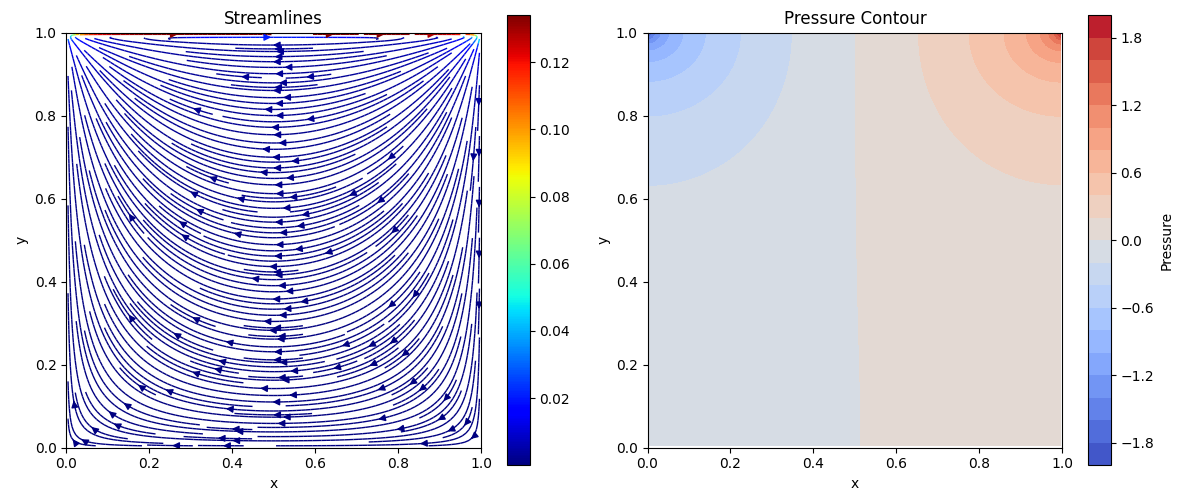
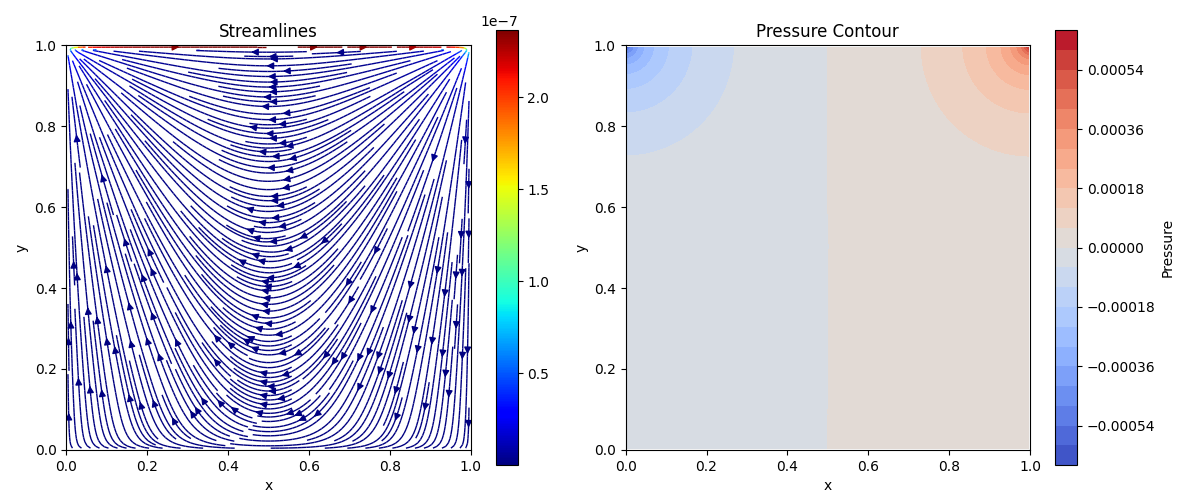
convection seems fixed

Changed region(s): [[0.0308, 0.03, 0.9867, 0.96], [0.2158, 0.96, 0.2467, 0.99], [0.0, 0.48, 0.0308, 0.51]]

diff --git a/Simple.py b/Simple.py
@@ -119,50 +119,38 @@ class CavitySIMPLE(DiffSchemes):
         self.u_star = np.copy(self.u)  # initialize u_star
         
         # upwind coefficients
-        u_avr_x = np.empty((self.nx+1, self.ny+2))
-        u_avr_x[:-1,:] = (self.u[:-1,:] + self.u[1:,:]) / 2 
-        u_avr_x[-1,:] = 0.5 * self.u[-1,:]  # last row is the right boundary, useless, only for shape
+        u_avr_x = np.empty((self.nx, self.ny))
+        u_avr_x = (self.u[:-1,1:-1] + self.u[1:,1:-1]) / 2 
         
-        alpha_uxp = np.maximum(u_avr_x, 0)[:,1:-1]     # nx+1, ny
-        alpha_uxm = np.minimum(u_avr_x, 0)[:,1:-1]     # nx+1, ny
-        # print(alpha_uxp.shape, alpha_uxm.shape)
+        alpha_uxp = np.maximum(u_avr_x, 0)     # nx, ny
+        alpha_uxm = np.minimum(u_avr_x, 0)     # nx, ny
         
-        v_avr_x = (self.v[1:-1,:] + self.v[2:,:]) / 2
+        # (nx-1,ny+1)
+        v_avr_x = (self.v[1:-2,:] + self.v[2:-1,:]) / 2
         
-        alpha_uyp = np.maximum(v_avr_x, 0)     # nx, ny+1
-        alpha_uym = np.minimum(v_avr_x, 0)     # nx, ny+1
-        # print(alpha_uyp.shape, alpha_uym.shape)
-        gamma_ux = np.zeros_like(alpha_uxp)  # nx+1, ny
-        gamma_uy = np.zeros_like(alpha_uyp)  # nx, ny+1
+        alpha_uyp = np.maximum(v_avr_x, 0)     # nx-1,ny+1
+        alpha_uym = np.minimum(v_avr_x, 0)     # nx-1,ny+1
+        gamma_ux = np.zeros_like(alpha_uxp)  # nx, ny
+        gamma_uy = np.zeros_like(alpha_uyp)  # nx-1,ny+1
         if uworder == 2:
-            # TODO: fix the expression
-            gamma_ux[1:-1] = 0.5 * (alpha_uxp[1:-1] * (self.u[1:-2,1:-1] - self.u[:-3,1:-1]) +
-                                    alpha_uxm * (self.u[2:-1,1:-1] - self.u[3:,1:-1]))
-            gamma_ux[0] = 0.5 * alpha_uxm[0] * (self.u[1,1:-1] - self.u[2,1:-1])
-            gamma_ux[-1] = 0.5 * alpha_uxp[-1] * (self.u[-2,1:-1] - self.u[-3,1:-1])
-            
-            gamma_uy[:,1:-2] = 0.5 * (alpha_uyp[:,1:-2] * (self.u[1:,1:-2] - self.u[1:,:-3]) +
-                                    alpha_uym * (self.u[1:,2:-1] - self.u[1:,3:]))
-            gamma_uy[:,0] = 0.5 * alpha_uym[:,0] * (self.u[1:,1] - self.u[1:,2])
-            gamma_uy[:,-1] = 0.5 * alpha_uyp[:,-1] * (self.u[1:,-1] - self.u[1:,-2])
-            gamma_uy[:,-2] = 0.5 * alpha_uyp[:,-2] * (self.u[1:,-2] - self.u[1:,-3])
+            ...
         
         # discretization coefficients (nx-1,ny for n,s,e,w,p,hat)
-        a_w = self.dy * (alpha_uxp[:-2] + 1 / (self.Re * self.dx))
-        a_e = self.dy * (-alpha_uxm[1:-1] + 1 / (self.Re * self.dx))
-        a_s = self.dx * (alpha_uyp[:-1,:-1] + 1 / (self.Re * self.dy))
-        a_n = self.dx * (-alpha_uym[:-1,1:] + 1 / (self.Re * self.dy))
+        a_w = self.dy * (alpha_uxp[:-1,:] + 1 / (self.Re * self.dx))
+        a_e = self.dy * (-alpha_uxm[1:,:] + 1 / (self.Re * self.dx))
+        a_s = self.dx * (alpha_uyp[:,:-1] + 1 / (self.Re * self.dy))
+        a_n = self.dx * (-alpha_uym[:,1:] + 1 / (self.Re * self.dy))
         a_n[:,-1] *= 2
         a_s[:,0] *= 2
     
         a_p = (self.dx * self.dy / self.dt) +\
-                self.dy * (alpha_uxp[1:-1] - alpha_uxm[:-2] + (2 / (self.Re * self.dx))) +\
-                self.dx * (alpha_uyp[:-1,1:] - alpha_uym[:-1,:-1] + (2 / (self.Re * self.dy)))
+                self.dy * (alpha_uxp[1:,:] - alpha_uxm[:-1,:] + (2 / (self.Re * self.dx))) +\
+                self.dx * (alpha_uyp[:,1:] - alpha_uym[:,:-1] + (2 / (self.Re * self.dy)))
         a_p[:,-1] += self.dx / (self.Re * self.dy)
         a_p[:,0] += self.dx / (self.Re * self.dy)
         
-        a_hat = self.dy * (gamma_ux[1:-1] - gamma_ux[:-2]) +\
-                self.dx * (gamma_uy[:-1,1:] - gamma_uy[:-1,:-1])
+        a_hat = self.dy * (gamma_ux[1:] - gamma_ux[:-1]) +\
+                self.dx * (gamma_uy[:,1:] - gamma_uy[:,:-1])
         # pressure gradient(nx-1,ny)
         dP = -(self.p[1:] - self.p[:-1]) * self.dy
         value_old = np.empty_like(self.u_star)
@@ -192,49 +180,40 @@ class CavitySIMPLE(DiffSchemes):
         """solve momentum equation"""
         self.v_star = np.copy(self.v)  # initialize u_star
         # upwind coefficients
-        v_avr_y = np.empty((self.nx+2, self.ny+1))
-        v_avr_y[:,:-1] = (self.v[:,:-1] + self.v[:,1:]) / 2 
-        v_avr_y[:,-1] = 0.5 * self.v[:,-1]  # last row is the upper boundary, useless, only for shape
+        v_avr_y = np.empty((self.nx, self.ny))
+        v_avr_y = (self.v[1:-1,:-1] + self.v[1:-1,1:]) / 2 
         
-        alpha_vyp = np.maximum(v_avr_y, 0)[1:-1,:]     # nx, ny+1
-        alpha_vym = np.minimum(v_avr_y, 0)[1:-1,:]     # nx, ny+1
+        alpha_vyp = np.maximum(v_avr_y, 0)     # nx, ny
+        alpha_vym = np.minimum(v_avr_y, 0)     # nx, ny
         
-        u_avr_y = (self.u[:,1:-1] + self.u[:,2:]) / 2
+        # (nx+1,ny-1)
+        u_avr_y = (self.u[:,2:-1] + self.u[:,1:-2]) / 2
         
-        alpha_vxp = np.maximum(u_avr_y, 0)     # nx+1, ny
-        alpha_vxm = np.minimum(u_avr_y, 0)     # nx+1, ny
-        gamma_vy = np.zeros_like(alpha_vyp)  # nx, ny+1
-        gamma_vx = np.zeros_like(alpha_vxp)  # nx+1, ny
+        alpha_vxp = np.maximum(u_avr_y, 0)     # nx+1, ny-1
+        alpha_vxm = np.minimum(u_avr_y, 0)     # nx+1, ny-1
+        gamma_vy = np.zeros_like(alpha_vyp)  # nx, ny
+        gamma_vx = np.zeros_like(alpha_vxp)  # nx+1, ny-1
         if uworder == 2:
-            gamma_vy[:,1:-1] = 0.5 * (alpha_vyp[:,1:-1] * (self.v[1:-1,1:-2] - self.v[1:-1,:-3]) +
-                                    alpha_vym * (self.v[1:-1,2:-1] - self.v[1:-1,3]))
-            gamma_vy[:,0] = 0.5 * alpha_vym[:,0] * (self.v[1:-1,1] - self.v[1:-1,2])
-            gamma_vy[:,-1] = 0.5 * alpha_vyp[:,-1] * (self.v[1:-1,-2] - self.v[-1:-1,-3])
+            ...
             
-            gamma_vx[1:-2] = 0.5 * (alpha_vxp[1:-2,:] * (self.v[1:-2,1:] - self.v[:-3,1:]) +
-                                    alpha_vxm * (self.v[2:-1,1:] - self.v[3:,1:]))
-            gamma_vx[0] = 0.5 * alpha_vxm[0] * (self.v[1:,1] - self.v[2:,1])
-            gamma_vx[-1] = 0.5 * alpha_vxp[-1] * (self.v[-1,1:] - self.v[-2,1:])
-            gamma_vx[-2] = 0.5 * alpha_vxp[-2] * (self.v[-2,1:] - self.v[-3,1:])
-            
-        # discretization coefficients (nx,ny-1 for w,e,n,s,hat; nx,ny for p)
-        a_s = self.dx * (alpha_vyp[:,:-2] + 1 / (self.Re * self.dy))
-        a_n = self.dx * (-alpha_vym[:,1:-1] + 1 / (self.Re * self.dy))
-        a_w = self.dy * (alpha_vxp[:-1,:-1] + 1 / (self.Re * self.dx))
-        a_e = self.dy * (-alpha_vxm[1:,:-1] + 1 / (self.Re * self.dx))
+        # discretization coefficients (nx,ny-1 for w,e,n,s,p,hat)
+        a_s = self.dx * (alpha_vyp[:,:-1] + 1 / (self.Re * self.dy))
+        a_n = self.dx * (-alpha_vym[:,1:] + 1 / (self.Re * self.dy))
+        a_w = self.dy * (alpha_vxp[:-1,:] + 1 / (self.Re * self.dx))
+        a_e = self.dy * (-alpha_vxm[1:,:] + 1 / (self.Re * self.dx))
         a_w[0] *= 2
         a_e[-1] *= 2
         
         a_p = (self.dy * self.dx / self.dt) +\
-                self.dx * (alpha_vyp[:,1:-1] - alpha_vym[:,:-2] + (2 / (self.Re * self.dy))) +\
-                self.dy * (alpha_vxp[1:,:-1] - alpha_vxm[:-1,:-1] + (2 / (self.Re * self.dx)))
+                self.dx * (alpha_vyp[:,1:] - alpha_vym[:,:-1] + (2 / (self.Re * self.dy))) +\
+                self.dy * (alpha_vxp[1:,:] - alpha_vxm[:-1,:] + (2 / (self.Re * self.dx)))
         # a_p = (self.dy * self.dx / self.dt) +\
         #         a_e + a_w + a_n + a_s
         a_p[0] += self.dy / (self.Re * self.dx)
         a_p[-1] += self.dy / (self.Re * self.dx)
         
-        a_hat = self.dx * (gamma_vy[:,1:-1] - gamma_vy[:,:-2]) +\
-                self.dy * (gamma_vx[1:,:-1] - gamma_vx[:-1,:-1])
+        a_hat = self.dx * (gamma_vy[:,1:] - gamma_vy[:,:-1]) +\
+                self.dy * (gamma_vx[1:,:] - gamma_vx[:-1,:])
         # print(np.max(np.abs(a_p))/np.max(np.abs(a_n)))
         # pressure gradient(nx,ny-1)
         dP = -(self.p[:,1:] - self.p[:,:-1]) * self.dx

diff --git a/cavity_flow.py b/cavity_flow.py
@@ -4,14 +4,6 @@ import matplotlib.pyplot as plt
 import matplotlib.tri as tri
 import os
 
-# name and folder of the case
-name = 'cavity_flow'
-folder = 'Proj2\\SIMPLE'
-if not os.path.exists(folder):
-    os.makedirs(folder)
-file_path = os.path.join(folder, f'{name}.png')
-
-
 # domain and computational parameters
 nx, ny = 120, 120
 x = np.linspace(0, 1, nx)
@@ -20,14 +12,21 @@ dx = x[1] - x[0]
 dy = y[1] - y[0]
 cfl = 1e-4
 dt = cfl * min(dx, dy)  # time step
-Re = 400 # Reynolds number 
+Re = 1 # Reynolds number 
 U_top = 1
-alpha_u = 5e-2     # velocity relaxation factor
-alpha_v = 5e-2
+alpha_u = 0.3     # velocity relaxation factor
+alpha_v = 0.3
 alpha_p = 0.1   # pressure relaxation factor
-max_iter = 4000
-tol = 1e-6
-tune = False
+max_iter = 5000
+tol = 1e-7
+tune = True
+
+# name and folder of the case
+name = 'cavity_flow'
+folder = 'Proj2\\SIMPLE'
+if not os.path.exists(folder):
+    os.makedirs(folder)
+file_path = os.path.join(folder, f'{name}@Re={Re}.png')
 
 # solver definition
 cavity = CavitySIMPLE(
